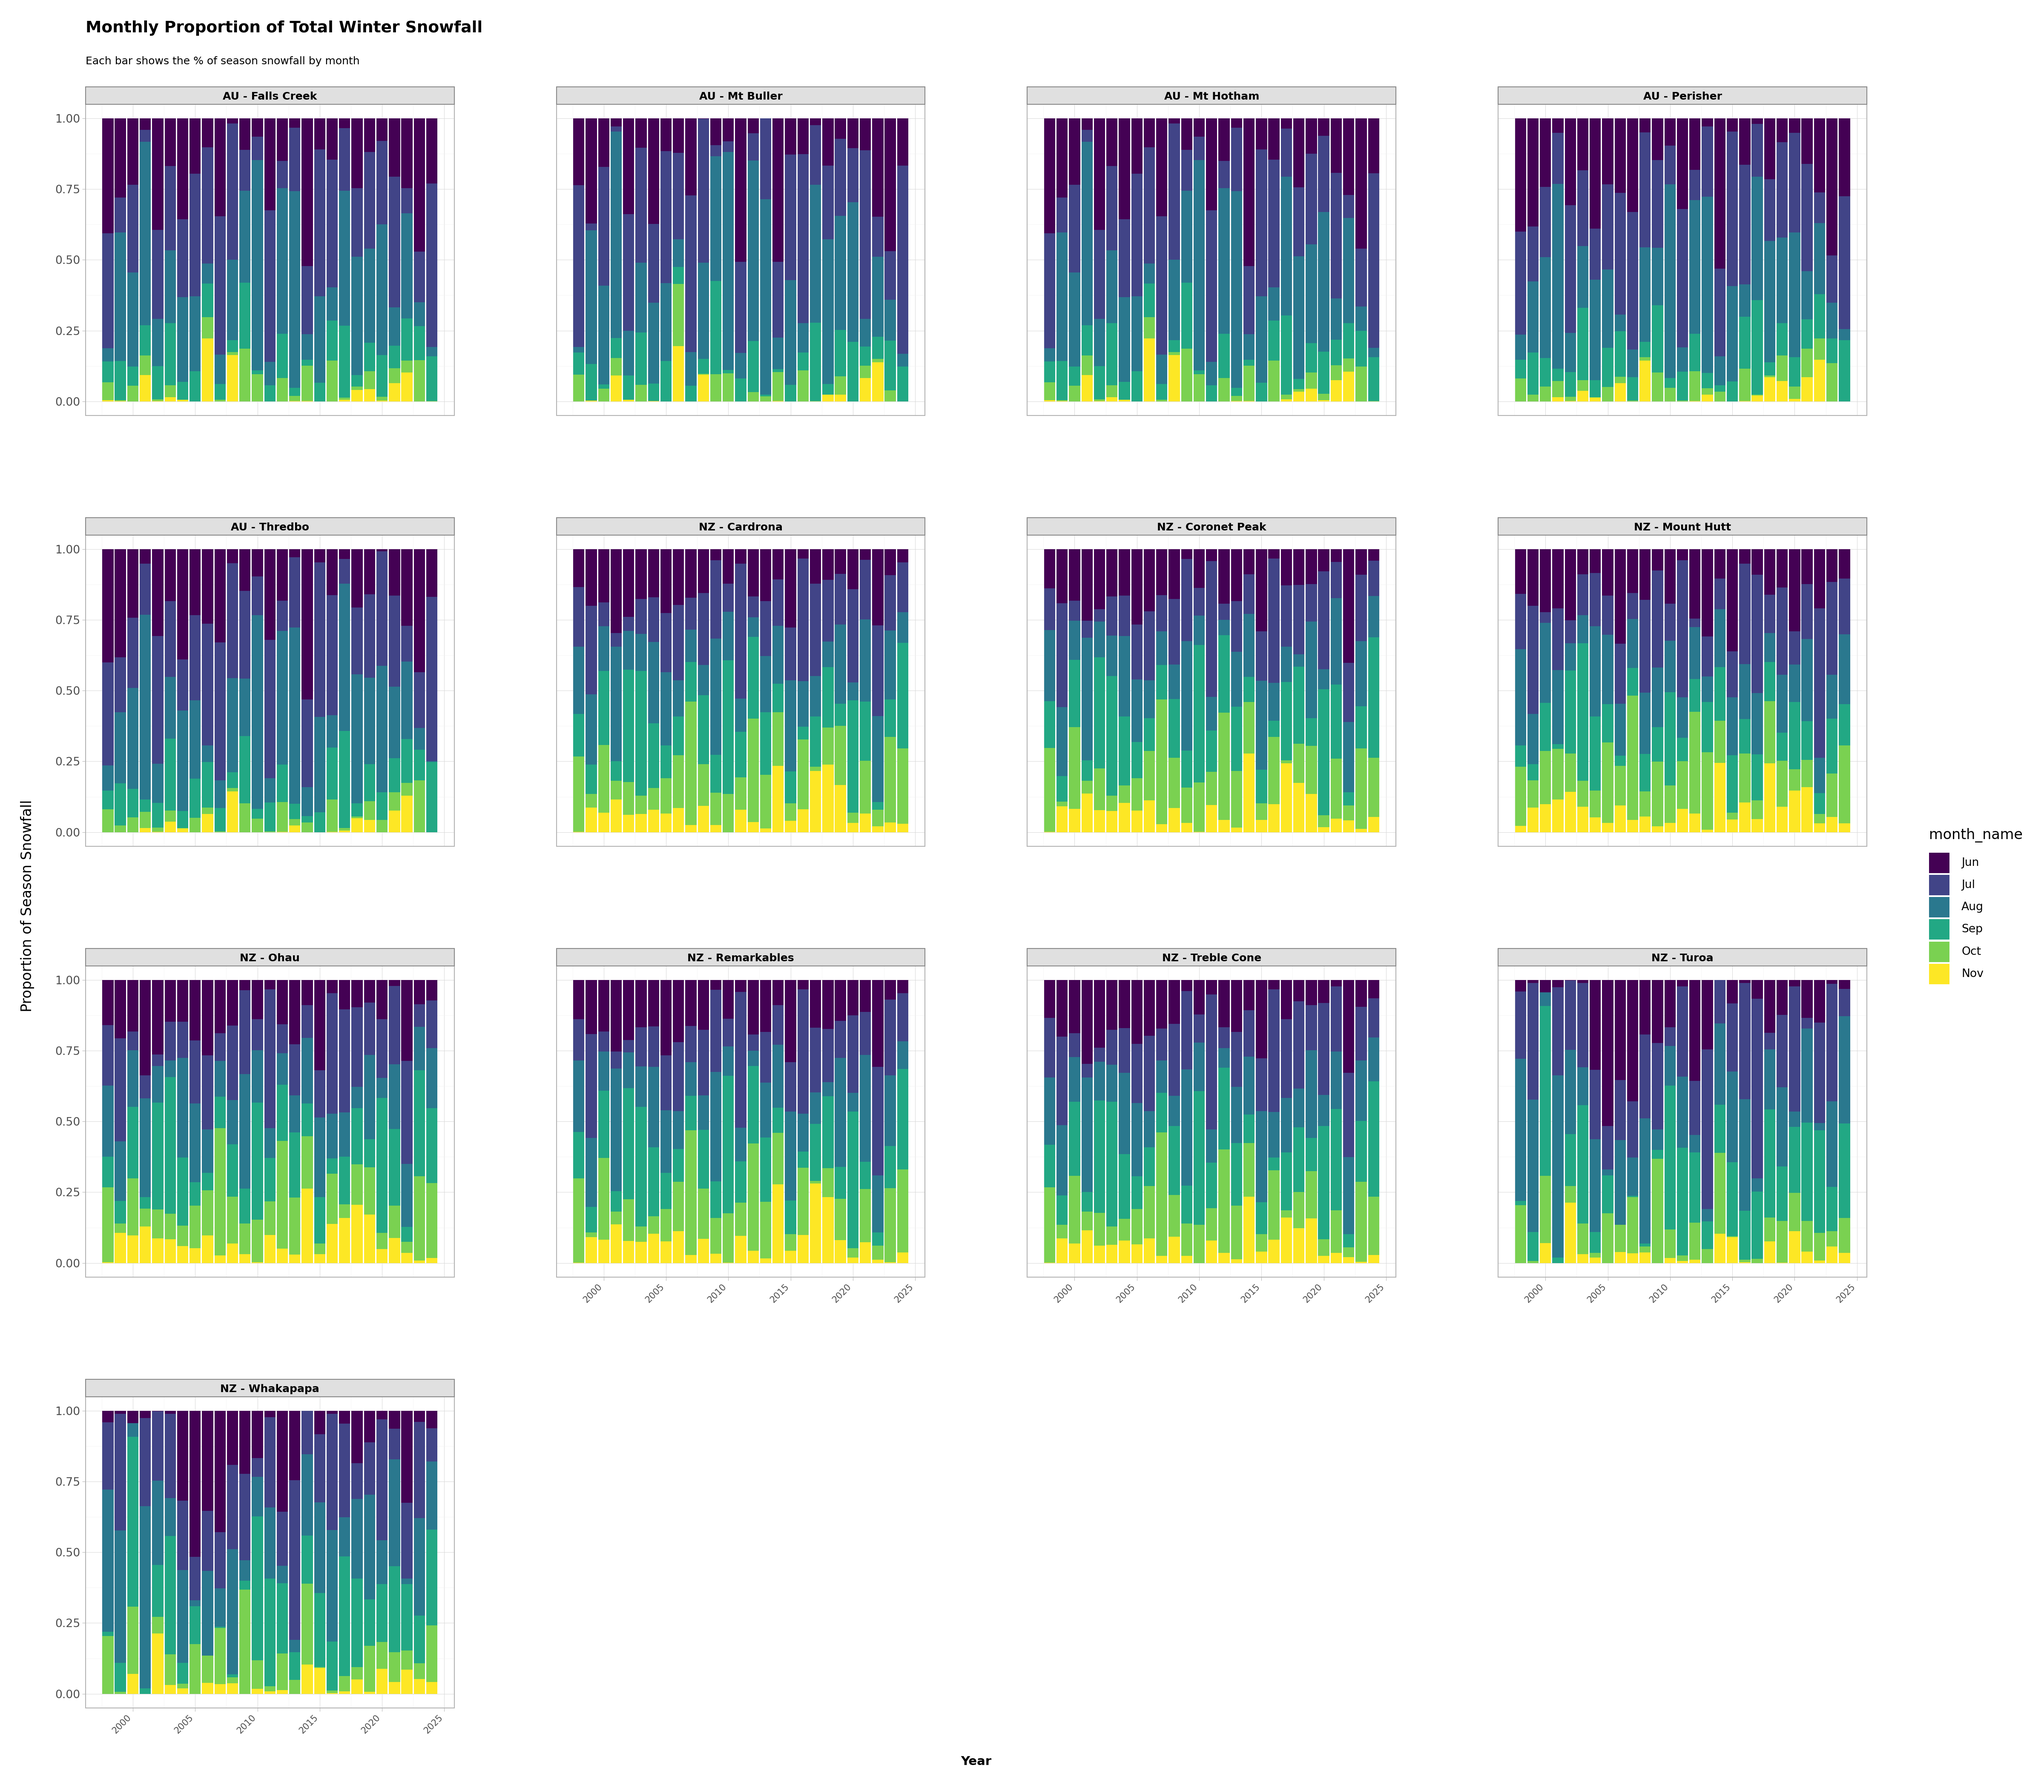
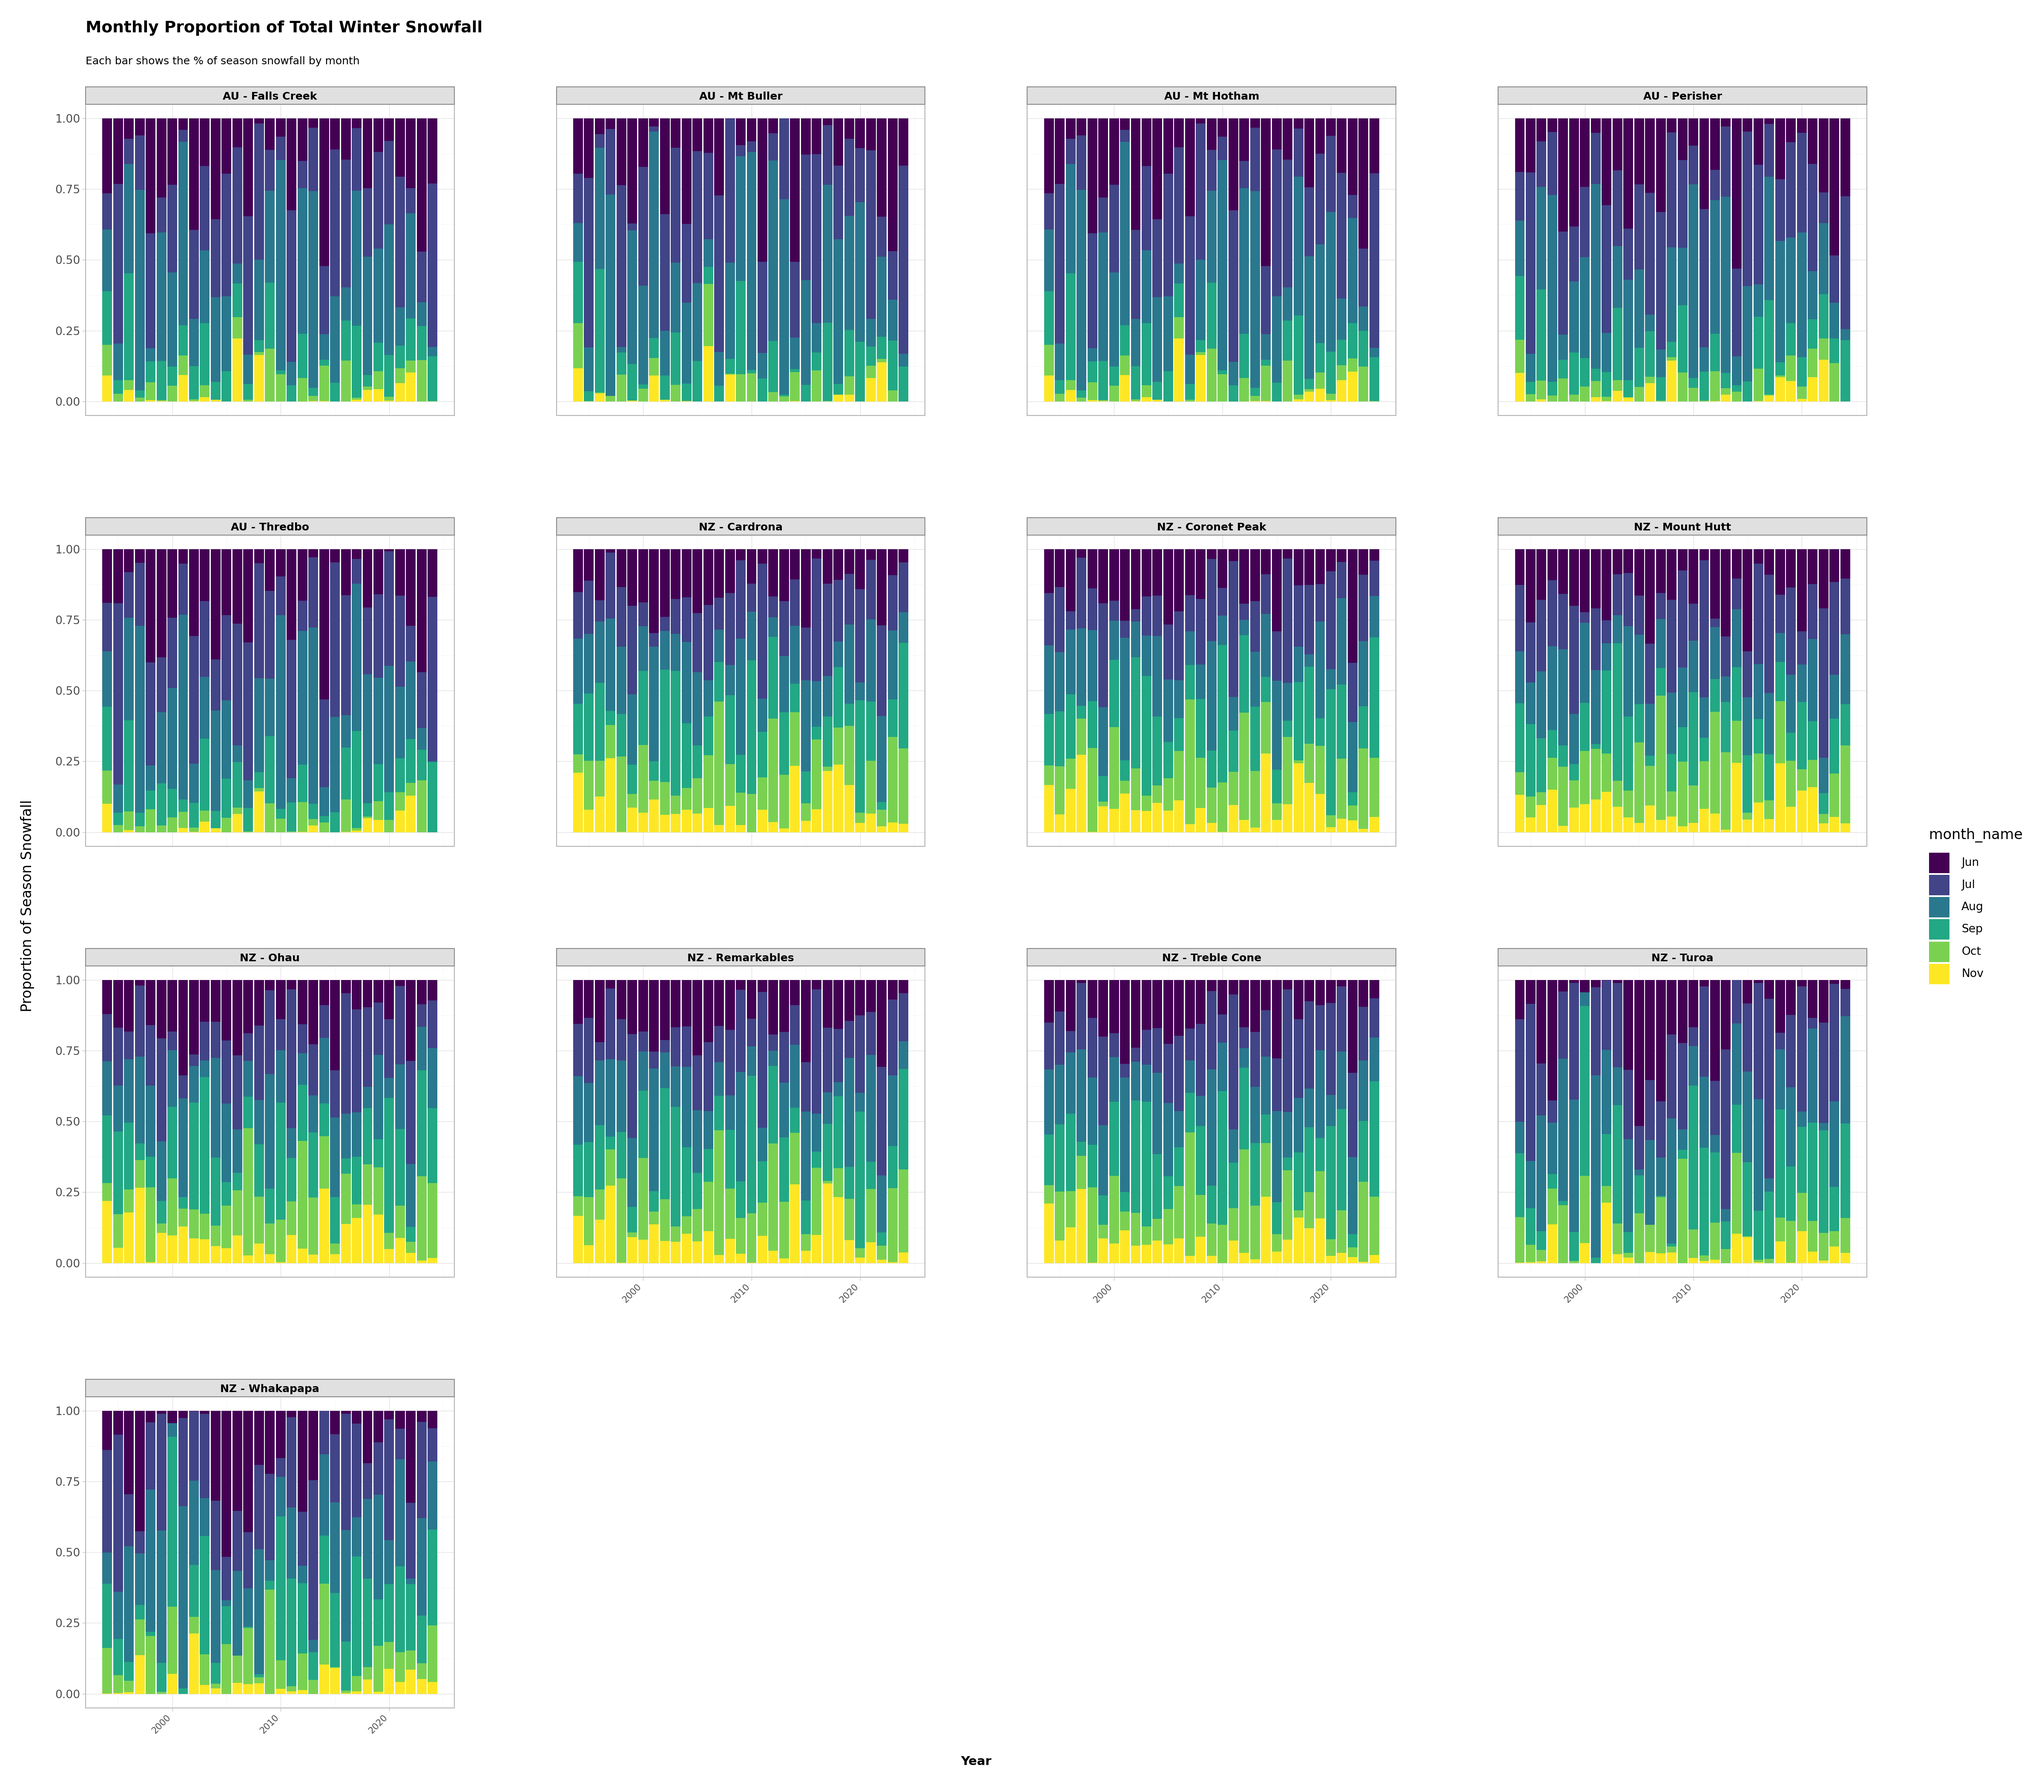
New Chart, updating pipeline logic for snowfall

diff --git a/pipelines/snowfall_dlt.py b/pipelines/snowfall_dlt.py
@@ -50,8 +50,8 @@ def get_ski_fields_with_timestamp():
     ]
 
 SKI_FIELDS = get_ski_fields_with_timestamp()
-START_DATE = date(1998, 1, 1)
-BATCH_SIZE = 200  # Number of rows to yield at once
+START_DATE = date(1994, 1, 1)
+BATCH_SIZE = 500  # Number of rows to yield at once
 FORCE_SNOW_DEPTH_RELOAD = False  # <-- Set to False after one-off load
 
 def get_all_missing_dates(logger, locations, start_date, end_date, dataset):
@@ -151,10 +151,6 @@ def snowfall_source(logger: logging.Logger, dataset):
         def is_winter_month(d):
             return 6 <= d.month <= 11
 
-        # Get all missing dates, but only for June-November
-        def get_winter_dates(start, end):
-            return [d for d in pd.date_range(start, end).date if is_winter_month(d)]
-
         missing_dates_by_location, table_truncated = get_all_missing_dates(
             logger, SKI_FIELDS, START_DATE, end_date, dataset
         )
@@ -194,9 +190,11 @@ def snowfall_source(logger: logging.Logger, dataset):
                 continue
 
             # Group missing dates by winter season (year)
+            # This is required as i only want filter data, if i 
+            # do min max of missing dates per location it will fetch 
+            # non winter months as well
             seasons = {}
             for d in missing_dates:
-                # If June-Nov, assign to that year as the "season"
                 seasons.setdefault(d.year, []).append(d)
             for season_year, season_dates in seasons.items():
                 chunk_dates = sorted(season_dates)
@@ -240,22 +238,9 @@ def snowfall_source(logger: logging.Logger, dataset):
                     merged["location"] = location_name
                     merged["country"] = country
 
-                    # Yield in batches
-                    batch = []
-                    for _, row in merged.iterrows():
-                        batch.append({
-                            "date": row["date"],
-                            "location": row["location"],
-                            "country": row["country"],
-                            "snowfall": row["snowfall"],
-                            "temperature_mean": row["temperature_mean"],
-                            "avg_snow_depth": row["avg_snow_depth"]
-                        })
-                        if len(batch) >= BATCH_SIZE:
-                            yield batch
-                            batch = []
-                    if batch:
-                        yield batch
+                    # Yield in batches using the range approach
+                    for i in range(0, len(merged), BATCH_SIZE):
+                        yield merged.iloc[i:i+BATCH_SIZE].to_dict(orient="records")
 
                     # Store processed range for this winter season
                     processed_info.setdefault(location_key, []).append({

diff --git a/scripts/Python_Visual.py b/scripts/Python_Visual.py
@@ -32,6 +32,13 @@ df = con.execute("""
     FROM camonairflow.public_analysis.snowfall_winter_agg as snowfall
 """).df()
 
+df_cat = con.execute("""
+select 
+  Season, ski_field, snowfall_category, 
+  countx
+  from camonairflow.public_analysis.snowfall_winter_counts
+""").df()
+
 # Calculate total winter snowfall per ski_field/year for proportion
 df['season_total'] = df.groupby(['ski_field', 'year_col'])['total_monthly_snowfall'].transform('sum')
 df['month_prop'] = df['total_monthly_snowfall'] / df['season_total']
@@ -149,6 +156,39 @@ p3 = (
     )
 )
 
+# Set ordered categories for better control in the plot
+category_order = ['<=1', '>1and<=5', '>5and<=15', '>15and<=25', '>25and<=50', '>50and<=100', '>100', 'NULL Entry or Error']
+df_cat['snowfall_category'] = pd.Categorical(df_cat['snowfall_category'], categories=category_order, ordered=True)
+
+# Create a facet label for consistency with other plots
+df_cat['facet_label'] = df_cat['ski_field']
+
+p4 = (
+    ggplot(df_cat, aes(x='Season', y='countx', fill='snowfall_category'))
+    + geom_bar(stat='identity', position='stack')
+    + facet_wrap('~facet_label', ncol=4, scales='free_x')
+    + labs(
+        title='Snowfall Category Distribution by Season',
+        subtitle='Each bar shows count of snowfall days per category',
+        x='Season (Year)', y='Count of Days'
+    )
+    + theme_light(base_size=16)
+    + theme(
+        legend_position='right',
+        axis_text_x=element_text(rotation=45, hjust=1, size=10),
+        axis_title_x=element_text(size=14, weight='bold'),
+        plot_title=element_text(weight='bold', size=18),
+        plot_subtitle=element_text(size=12),
+        panel_spacing=0.05,
+        strip_text_x=element_text(color="black", weight="bold", size=12),
+        strip_background=element_rect(fill="#e0e0e0", color="#888888")
+    )
+)
+
+
+
+
 # Save with a wide and shorter aspect ratio, under 6100px in both dimensions
 p2.save("/workspaces/CamOnAirFlow/charts/winter_snowfall_vs_avg.png", width=32, height=28, dpi=150, limitsize=False)
 p3.save("/workspaces/CamOnAirFlow/charts/monthly_proportion_snowfall.png", width=32, height=28, dpi=150, limitsize=False)
+p4.save("/workspaces/CamOnAirFlow/charts/snowfall_category_distribution.png", width=32, height=28, dpi=150, limitsize=False)

diff --git a/dbt/models/base/base_open_charge_driving_distance.py b/dbt/models/base/base_open_charge_driving_distance.py
@@ -73,7 +73,6 @@ def model(dbt: Any, session: Any):
         for path in potential_paths:
             if path.exists():
                 load_dotenv(dotenv_path=path)
-                print(f"Loaded .env from: {path}")
                 env_loaded = True
                 break
     
@@ -112,7 +111,7 @@ def model(dbt: Any, session: Any):
         # If nothing to process, return existing data
         if len(process_df) == 0:
             print("No new pairs to process")
-            return dbt.this.df()
+            return session.table(str(dbt.this)).df()
     else:
         print("Full refresh - loading pairs to process")
         # For full refresh, take pairs directly from source table
